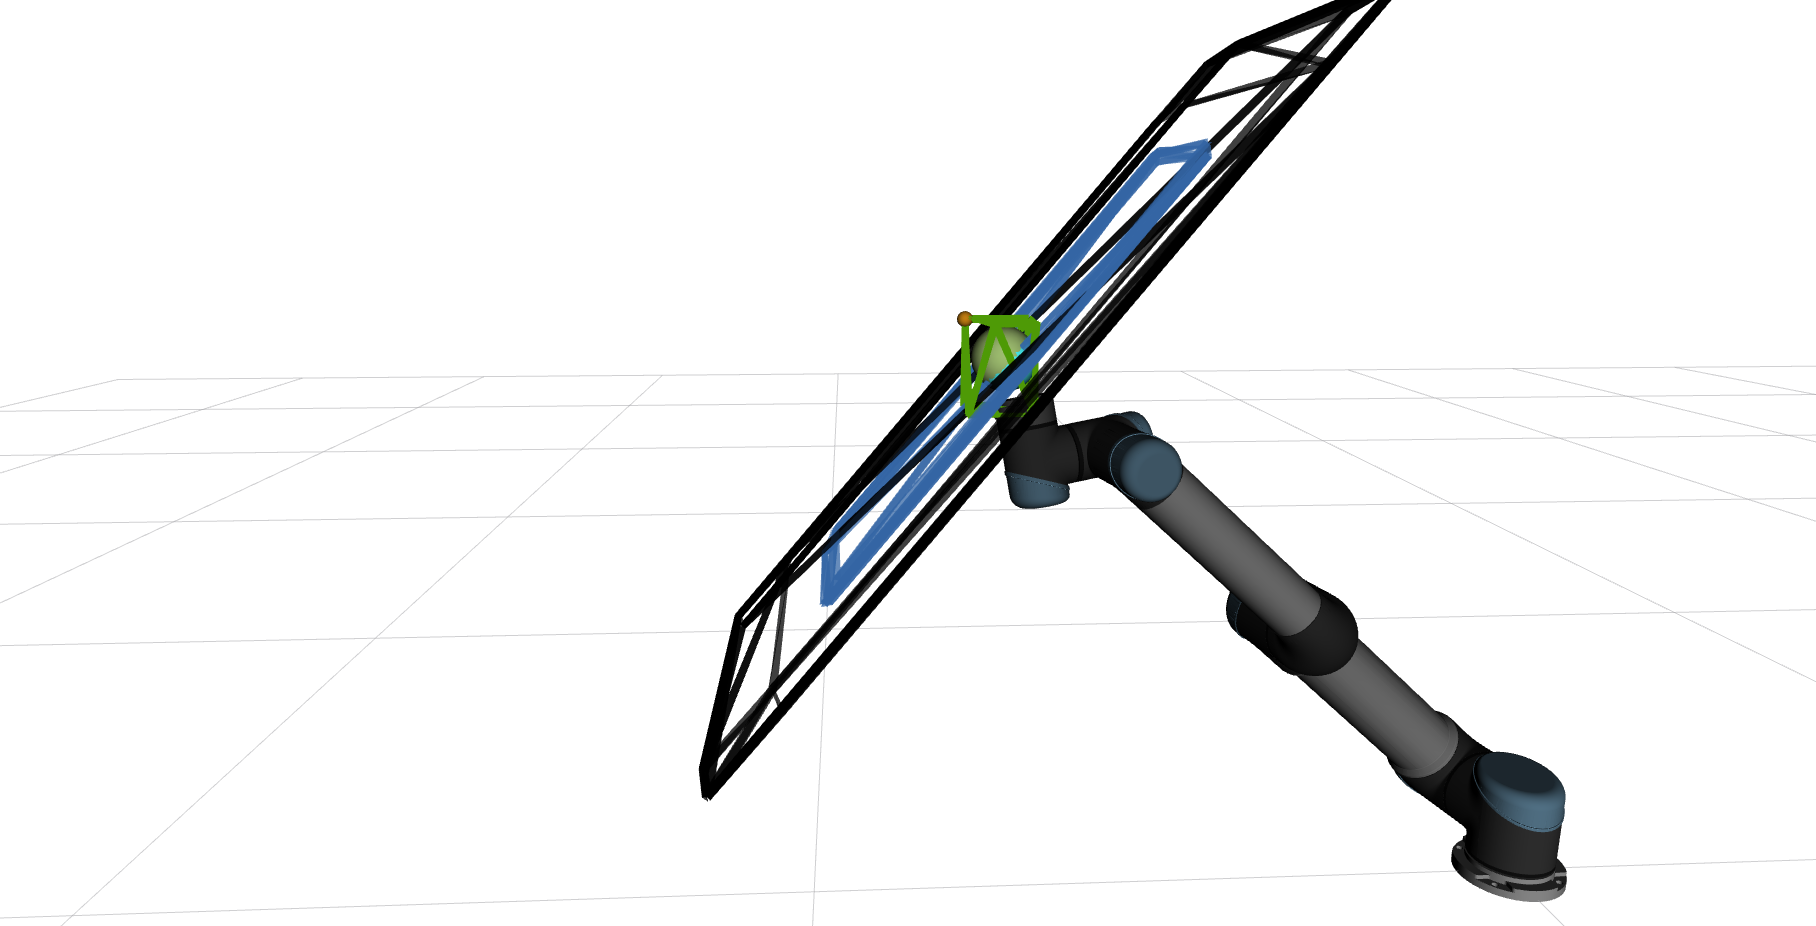
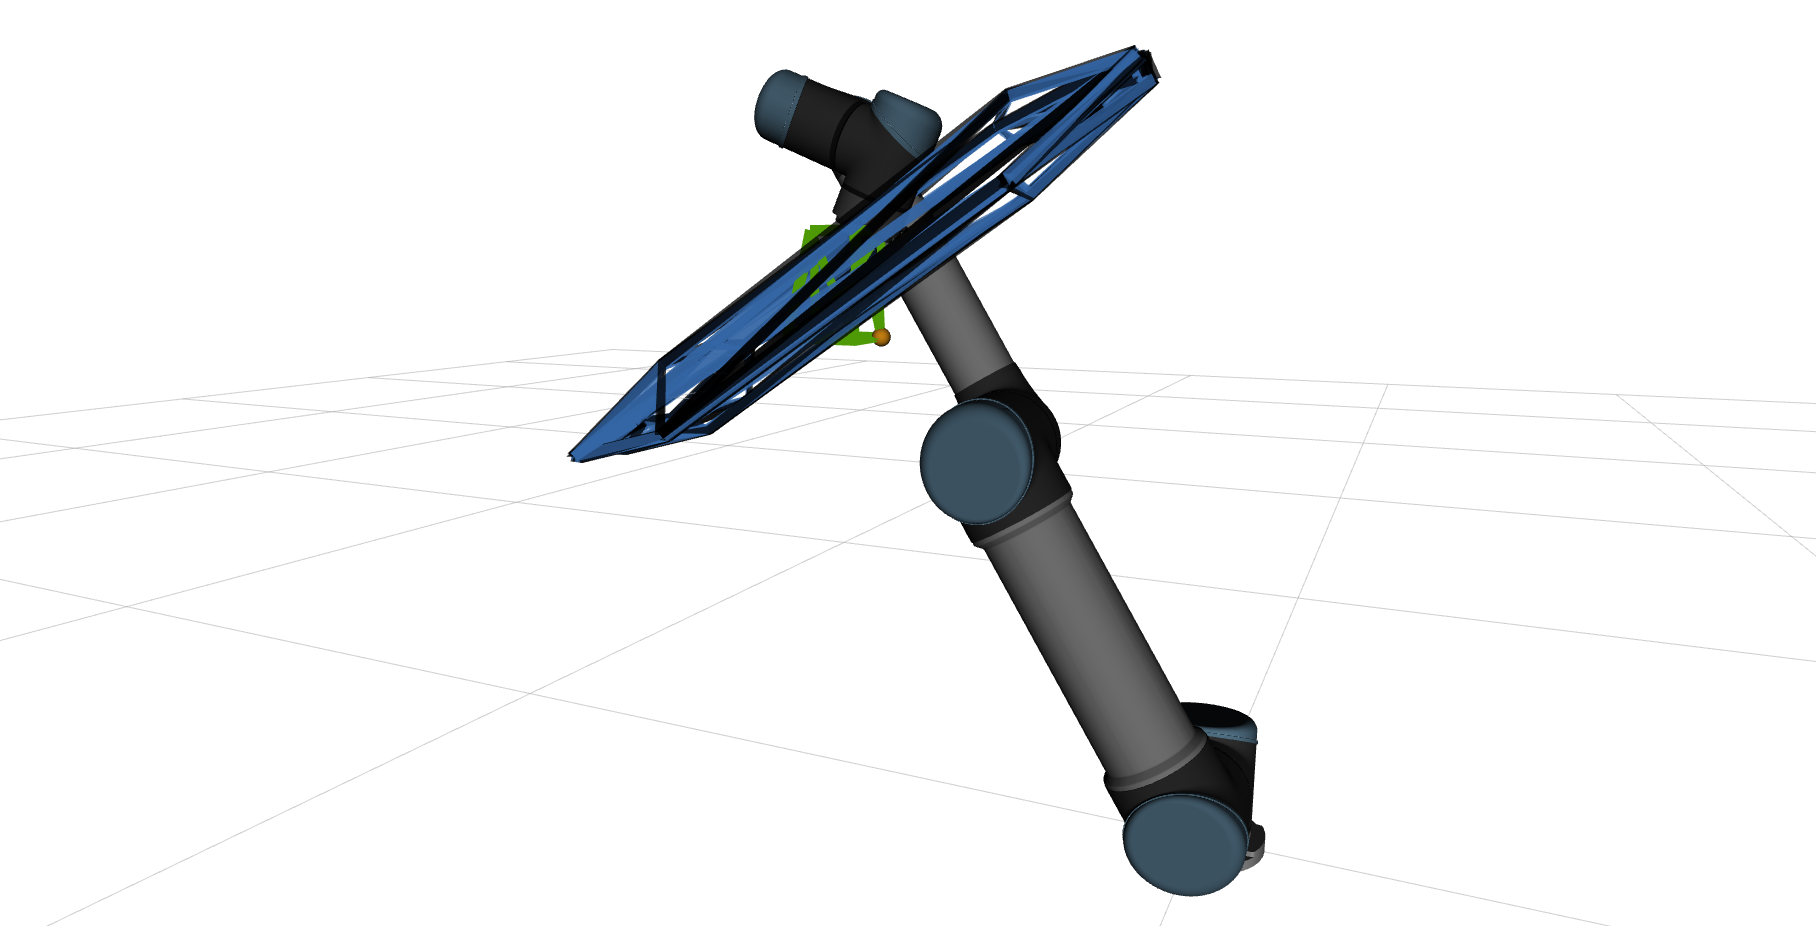
New images

diff --git a/src/rospygradientpolytope/launch_robot_ur.py b/src/rospygradientpolytope/launch_robot_ur.py
@@ -335,7 +335,10 @@ class LaunchRobot():
         #print('pos_des',float64(self.ef_IK_array[1,:]))
         #input('pos-desired')
         input('stop and exit dont test further')
-        self.test_trajectory(pos_start=array([0.50,0.01,0.5]),pos_end=array([0.99,0.01,0.4]),step_size=100) # Picture - FEasible pose - 1
+        #self.test_trajectory(pos_start=array([0.50,0.01,0.5]),pos_end=array([0.99,0.01,0.4]),step_size=100) # Picture - FEasible pose - 1
+        #self.test_feasible_pose(q_test=array([0.0,0.95,0,0.3,0.0,0.0]),step_size=100) # Picture - FEasible pose - 1
+        #self.plot_feasible_infeasible(sigmoid_slope_test)
+        self.test_gamma_gradient(sigmoid_slope_test)
         #self.test_trajectory(pos_start=array([0.90,0.01,0.5]),pos_end=array([0.99,0.01,0.4]),step_size=100) # Picture - FEasible pose - 1 - Good
         #self.test_trajectory(pos_start=array([0.89,0.01,0.5]),pos_end=array([0.99,0.01,0.4]),step_size=100) # Picture - FEasible pose - 1
 
@@ -968,6 +971,9 @@ class LaunchRobot():
 
 
 
+
+
+
     def plot_feasible_infeasible(self,sigmoid_slope_test):
         import time
         from numpy.linalg import det
@@ -979,17 +985,19 @@ class LaunchRobot():
 
         Gamma_min_prev = None
 
-        test_joint = 3
+        test_joint = 1
+        '''
         q_in = zeros(6)
         #q_add[test_joint] = 1
         
-        q_in[0] = 0.54
-        q_in[1] = -0.97
-        q_in[2] = 0.54
-        q_in[3] = 0.32
-        q_in[4] = 0.15
+        q_in[0] = 0.98
+        q_in[1] = -0.95
+        q_in[2] = 0.85
+        q_in[3] = -0.10
+        q_in[4] = -0.01
         q_in[5] = -0.12
         #q_in[6] = -0.76
+        '''
         step_size = 0.0050
 
         num_iterations = 600
@@ -1006,19 +1014,21 @@ class LaunchRobot():
 
         color_arr = ['magenta','k','green','cyan','r']
         #for lm in range(0,1):
-        for lm in range(len(sigmoid_slope_arr)):
+        #for lm in range(len(sigmoid_slope_arr)):
+        for lm in range(2,3):
+
             sigmoid_slope_inp = sigmoid_slope_arr[lm]
 
-            test_joint = 3
+            test_joint = 1
             q_in = zeros(6)
             #q_add[test_joint] = 1
             
-            q_in[0] = 0.98
-            q_in[1] = -0.95
-            q_in[2] = 0.85
-            q_in[3] = -0.10
-            q_in[4] = -1.41
-            q_in[5] = -1.12
+            q_in[0] = 0.0
+            q_in[1] = -1.0
+            q_in[2] = 0.0 # 0.50 # 1.2
+            q_in[3] = -1.57 # 0.57 # 2.2 --> infeasible
+            q_in[4] = 0.0 # 1.57
+            q_in[5] = 0.0
             #q_in[6] = -0.76
             step_size = 0.0010
 
@@ -1042,7 +1052,7 @@ class LaunchRobot():
                 i0_plot[i] = q_in[test_joint]
                 #print('self.q_in',q_in)
 
-                #self.joint_state_publisher_robot(q_in)
+                self.joint_state_publisher_robot(q_in)
                 #time.sleep(0.005)
 
                 # Publish joint sates to Rviz for the robot
@@ -1081,7 +1091,7 @@ class LaunchRobot():
                 #print('Nnot is',Nnot)
                 #input('test size of n_k')
                 #print('Gamma_min is',Gamma_min)
-                #print('Gamma_min softmax is',Gamma_min_softmax)
+                print('Gamma_min softmax is',Gamma_min_softmax)
 
                 if Gamma_min_prev != None:
 
@@ -1113,7 +1123,7 @@ class LaunchRobot():
             
 
 
-                '''
+                
                 
             
                 scaling_factor = 10.0
@@ -1202,7 +1212,7 @@ class LaunchRobot():
                 
                 
                 ### Vertex 
-                '''
+                
                 ##############################################################################################################
                 
                 
@@ -1238,7 +1248,7 @@ class LaunchRobot():
         #plt.legend((handle_1,handle_2,handle_3,handle_4,handle_5,handle_6,label_numerical),(handle_str_1,'Analytical Slope: 100','Analytical Slope: 150','Analytical Slope: 200','Analytical Slope: 400',handle_str_2,'Numerical Gradient'),loc="upper left")
         
         plt.legend(loc="lower left")
-        plt.savefig('UR_gradient_comparison_' + str(101)+('.png'))
+        #plt.savefig('UR_gradient_comparison_' + str(101)+('.png'))
         plt.show()
 
 
@@ -1267,7 +1277,7 @@ class LaunchRobot():
         q_in[1] = -0.97
         q_in[2] = 0.54
         q_in[3] = 0.32
-        q_in[4] = 0.15
+        q_in[4] = -0.15 #
         q_in[5] = -0.12
         #q_in[6] = -0.76
         step_size = 0.0050
@@ -1277,7 +1287,7 @@ class LaunchRobot():
 
         i0_plot = zeros(shape=(num_iterations))
         #len(x0_start)
-        sigmoid_slope_arr = [50,100.0,150.0,200.0,400.0]
+        sigmoid_slope_arr = [50.0,100.0,150.0,200.0,400.0]
         error_plot_a = zeros(shape=(num_iterations,len(sigmoid_slope_arr)))
         error_plot_n = zeros(shape=(num_iterations,len(sigmoid_slope_arr)))
         z0_plot = zeros(shape=(num_iterations,len(sigmoid_slope_arr)))
@@ -1393,8 +1403,8 @@ class LaunchRobot():
             
 
 
-                '''
                 
+                '''
             
                 scaling_factor = 10.0
                 #mutex.acquire()
@@ -1494,14 +1504,17 @@ class LaunchRobot():
         ax2.set_xlabel('Joint q' + str(test_joint))
         #ax2.set_ylabel(r"$\partial \hat{\gamma}$" + str(' [N]'),fontsize=13)
         ax2.set_ylabel('Capacity Margin Gradient' + str(' [N]'),fontsize=13)
+        ax2.set_ylim([-0.3,1.2])
 
 
         #handle_1 = ax2.scatter(i0_plot[1],error_plot_a[1,1],color='k',s=0.0000001,label='Estimated:'+ r"$\frac{\partial \hat{\gamma}}{\partial{q_3}}$")
 
-        handle_2 = ax2.plot(i0_plot[1:],error_plot_a[1:,0],color=color_arr[0],linestyle='dashed',label='Analytical Slope: 100')
-        handle_3 = ax2.plot(i0_plot[1:],error_plot_a[1:,1],color=color_arr[1],linestyle='dashed',label='Analytical Slope: 150')
-        handle_4 = ax2.plot(i0_plot[1:],error_plot_a[1:,2],color=color_arr[2],linestyle='dashed',label='Analytical Slope: 200')
-        handle_5 = ax2.plot(i0_plot[1:],error_plot_a[1:,3],color=color_arr[3],linestyle='dashed',label='Analytical Slope: 400')
+        handle_2 = ax2.plot(i0_plot[1:],error_plot_a[1:,0],color=color_arr[0],linestyle='dashed',label='Analytical Slope: 50')
+        handle_3 = ax2.plot(i0_plot[1:],error_plot_a[1:,1],color=color_arr[1],linestyle='dashed',label='Analytical Slope: 100')
+        handle_4 = ax2.plot(i0_plot[1:],error_plot_a[1:,2],color=color_arr[2],linestyle='dashed',label='Analytical Slope: 150')
+        handle_5 = ax2.plot(i0_plot[1:],error_plot_a[1:,3],color=color_arr[3],linestyle='dashed',label='Analytical Slope: 200')
+        handle_5 = ax2.plot(i0_plot[1:],error_plot_a[1:,4],color=color_arr[4],linestyle='dashed',label='Analytical Slope: 400')
+
 
         #handle_6 = ax2.scatter(i0_plot[1],error_plot_a[1,1],color='k',s=0.0000001,label='Actual' + r"$\frac{\partial {\gamma}}{\partial{q_3}}$")
         #input('second plot')
